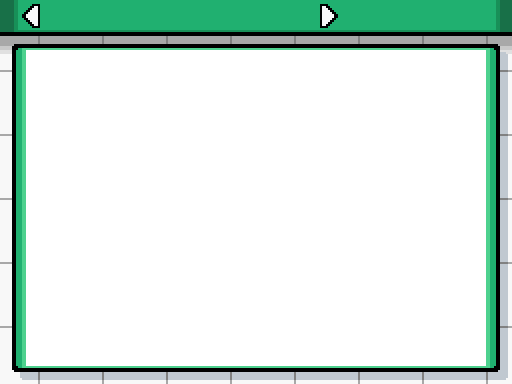
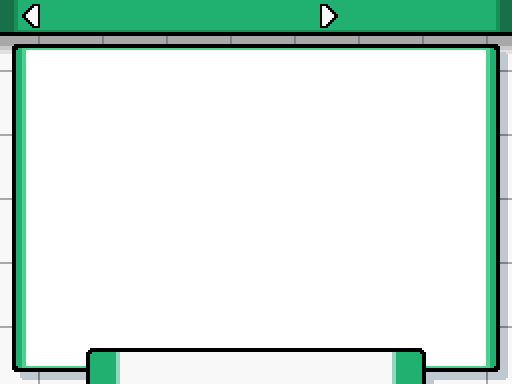
Can press the Special key to toggle on the Town Map encounter view in the MasterDex

Changed region(s): [[0.1562, 0.9062, 0.8438, 1.0]]

diff --git a/Plugins/Chasm MasterDex/PokeDex Entry/PokemonPokedexInfo_Scene.rb b/Plugins/Chasm MasterDex/PokeDex Entry/PokemonPokedexInfo_Scene.rb
@@ -6,6 +6,7 @@ class PokemonPokedexInfo_Scene
 
     LEVEL_MOVES_PAGE_ID = 6
     OTHER_MOVES_PAGE_ID = 7
+    AREA_PAGE_ID = 9
     FORMS_PAGE_ID = 10
 
     def pageTitles
@@ -35,8 +36,7 @@ class PokemonPokedexInfo_Scene
         @sprites["infosprite"].x = 104
         @sprites["infosprite"].y = 136
         @mapdata = pbLoadTownMapData
-        map_metadata = GameData::MapMetadata.try_get($game_map.map_id)
-        mappos = map_metadata ? map_metadata.town_map_position : nil
+        mappos = getDisplayedPositionOfGameMap($game_map.map_id)
         if @region < 0                                 # Use player's current region
             @region = mappos ? mappos[0] : 0 # Region 0 default
         end
@@ -54,7 +54,9 @@ class PokemonPokedexInfo_Scene
         end
         @sprites["areahighlight"] = BitmapSprite.new(Graphics.width, Graphics.height, @viewport)
         @sprites["areaoverlay"] = IconSprite.new(0, 0, @viewport)
-        @sprites["areaoverlay"].setBitmap("Graphics/Pictures/Pokedex/overlay_area")
+        areaOverlayPath = "Graphics/Pictures/Pokedex/overlay_area"
+        areaOverlayPath += "_dark" if darkMode?
+        @sprites["areaoverlay"].setBitmap(areaOverlayPath)
         @sprites["formfront"] = PokemonSprite.new(@viewport)
         @sprites["formfront"].setOffset(PictureOrigin::Center)
         @sprites["formfront"].x = 130
@@ -109,6 +111,8 @@ class PokemonPokedexInfo_Scene
 
         @showShinyForms = $PokemonGlobal.dex_forms_shows_shinies || false
 
+        @showAreaMap = $PokemonGlobal.dex_area_shows_map || false
+
         @speciesCalcedFor = nil
         @formCalcedFor = nil
         recalculate_other_moves_lists if @page == OTHER_MOVES_PAGE_ID
@@ -131,6 +135,11 @@ class PokemonPokedexInfo_Scene
     end
 
     def pbUpdate
+        if @page == AREA_PAGE_ID
+            intensity = (Graphics.frame_count % 40)*12
+            intensity = 480 - intensity if intensity > 240
+            @sprites["areahighlight"].opacity = intensity
+        end
         pbUpdateSpriteHash(@sprites)
     end
 
@@ -200,9 +209,9 @@ sp.form) && !Settings::DEX_SHOWS_ALL_FORMS
         overlay.clear
         # Make certain sprites visible or invisible
         @sprites["infosprite"].visible = (@page == 1)
-        @sprites["areamap"].visible       = false if @sprites["areamap"] # (@page==7) if @sprites["areamap"]
-        @sprites["areahighlight"].visible = false if @sprites["areahighlight"] # (@page==7) if @sprites["areahighlight"]
-        @sprites["areaoverlay"].visible   = false if @sprites["areaoverlay"] # (@page==7) if @sprites["areaoverlay"]
+        @sprites["areamap"].visible       = (@page == AREA_PAGE_ID && @showAreaMap) if @sprites["areamap"]
+        @sprites["areahighlight"].visible = (@page == AREA_PAGE_ID && @showAreaMap) if @sprites["areahighlight"]
+        @sprites["areaoverlay"].visible   = (@page == AREA_PAGE_ID && @showAreaMap) if @sprites["areaoverlay"]
         @sprites["formfront"].visible     = (@page == FORMS_PAGE_ID) if @sprites["formfront"]
         @sprites["formback"].visible      = (@page == FORMS_PAGE_ID) if @sprites["formback"]
         @sprites["formicon"].visible      = (@page == FORMS_PAGE_ID) if @sprites["formicon"]
@@ -969,6 +978,14 @@ sp.form) && !Settings::DEX_SHOWS_ALL_FORMS
     end
 
     def drawPageArea
+        if @showAreaMap
+            drawAreaMapVisual
+        else
+            drawAreaText
+        end
+    end
+
+    def drawAreaText
         bg_path = "Graphics/Pictures/Pokedex/bg_area"
         bg_path += "_dark" if darkMode?
         @sprites["background"].setBitmap(_INTL(bg_path))
@@ -1030,6 +1047,90 @@ sp.form) && !Settings::DEX_SHOWS_ALL_FORMS
                 end
             end
         end
+
+        textpos = []
+        textpos.push([_INTL("SPECIAL/D to show map"),Graphics.width/2,346,2,base,shadow])
+        pbDrawTextPositions(overlay,textpos)
+    end
+
+    def drawAreaMapVisual
+        overlay = @sprites["overlay"].bitmap
+        base   = MessageConfig.pbDefaultTextMainColor
+        shadow = MessageConfig.pbDefaultTextShadowColor
+
+        @sprites["areahighlight"].bitmap.clear
+        # Fill the array "points" with all squares of the region map in which the
+        # species can be found
+        points = []
+        mapwidth = 1 + PokemonRegionMap_Scene::RIGHT - PokemonRegionMap_Scene::LEFT
+        GameData::Encounter.each_of_version($PokemonGlobal.encounter_version) do |enc_data|
+            next if !pbFindEncounter(enc_data.types, @species)
+            map_metadata = GameData::MapMetadata.try_get(enc_data.map)
+            begin
+                mappos = getDisplayedPositionOfGameMap(enc_data.map)
+            rescue NoMethodError
+                next
+            end
+            next if !mappos || mappos[0] != @region
+            showpoint = true
+            for loc in @mapdata[@region][2]
+                showpoint = false if loc[0]==mappos[1] && loc[1]==mappos[2] && loc[7] && !$game_switches[loc[7]]
+            end
+            next if !showpoint
+            mapsize = map_metadata.town_map_size
+            if mapsize && mapsize[0] && mapsize[0]>0
+                sqwidth  = mapsize[0]
+                sqheight = (mapsize[1].length*1.0/mapsize[0]).ceil
+                for i in 0...sqwidth
+                    for j in 0...sqheight
+                        if mapsize[1][i+j*sqwidth,1].to_i>0
+                        points[mappos[1]+i+(mappos[2]+j)*mapwidth] = true
+                        end
+                    end
+                end
+            else
+                points[mappos[1]+mappos[2]*mapwidth] = true
+            end
+        end
+        # Draw coloured squares on each square of the region map with a nest
+        pointcolor   = Color.new(0,248,248)
+        pointcolorhl = Color.new(192,248,248)
+        sqwidth = PokemonRegionMap_Scene::SQUAREWIDTH
+        sqheight = PokemonRegionMap_Scene::SQUAREHEIGHT
+        for j in 0...points.length
+            if points[j]
+                x = (j%mapwidth)*sqwidth
+                x += (Graphics.width-@sprites["areamap"].bitmap.width)/2
+                y = (j/mapwidth)*sqheight
+                y += (Graphics.height+32-@sprites["areamap"].bitmap.height)/2
+                @sprites["areahighlight"].bitmap.fill_rect(x,y,sqwidth,sqheight,pointcolor)
+                if j-mapwidth<0 || !points[j-mapwidth]
+                    @sprites["areahighlight"].bitmap.fill_rect(x,y-2,sqwidth,2,pointcolorhl)
+                end
+                if j+mapwidth>=points.length || !points[j+mapwidth]
+                    @sprites["areahighlight"].bitmap.fill_rect(x,y+sqheight,sqwidth,2,pointcolorhl)
+                end
+                if j%mapwidth==0 || !points[j-1]
+                    @sprites["areahighlight"].bitmap.fill_rect(x-2,y,2,sqheight,pointcolorhl)
+                end
+                if (j+1)%mapwidth==0 || !points[j+1]
+                    @sprites["areahighlight"].bitmap.fill_rect(x+sqwidth,y,2,sqheight,pointcolorhl)
+                end
+            end
+        end
+        # Set the text
+        textpos = []
+        if points.length==0
+            overlayAreaNonePath = "Graphics/Pictures/Pokedex/overlay_areanone"
+            overlayAreaNonePath += "_dark" if darkMode?
+            pbDrawImagePositions(overlay,[
+                [sprintf(overlayAreaNonePath),108,188]
+            ])
+            textpos.push([_INTL("Area unknown"),Graphics.width/2,Graphics.height/2 - 6,2,base,shadow])
+        end
+        textpos.push([pbGetMessage(MessageTypes::RegionNames,@region),414,38,2,base,shadow])
+        textpos.push([_INTL("SPECIAL/D to hide map"),Graphics.width/2,346,2,base,shadow])
+        pbDrawTextPositions(overlay,textpos)
     end
 
     def drawPageForms
@@ -1587,6 +1688,11 @@ sp.form) && !Settings::DEX_SHOWS_ALL_FORMS
             elsif Input.trigger?(Input::SPECIAL)
                 if @page == OTHER_MOVES_PAGE_ID
                     toggle_other_moves_list_sort_mode
+                    dorefresh = true
+                elsif @page == AREA_PAGE_ID
+                    pbPlayDecisionSE
+                    @showAreaMap = !@showAreaMap
+                    $PokemonGlobal.dex_area_shows_map = @showAreaMap
                     dorefresh = true
                 elsif @page == FORMS_PAGE_ID
                     pbPlayDecisionSE

diff --git a/Plugins/Chasm Other/Globals/GlobalMetadata.rb b/Plugins/Chasm Other/Globals/GlobalMetadata.rb
@@ -22,6 +22,7 @@ class PokemonGlobalMetadata
     attr_accessor :stored_search
     attr_accessor :dex_forms_shows_shinies
     attr_accessor :dex_tutor_list_sort_mode
+    attr_accessor :dex_area_shows_map
     # Day Care
     attr_accessor :daycare
     attr_accessor :daycareEgg
@@ -184,6 +185,7 @@ class PokemonGlobalMetadata
         # Masterdex
         @stored_search		  = nil
         @dex_forms_shows_shinies = false
+        @dex_area_shows_map = false
         @dex_tutor_list_sort_mode = 0
 
         @omnitutor_active     = false
